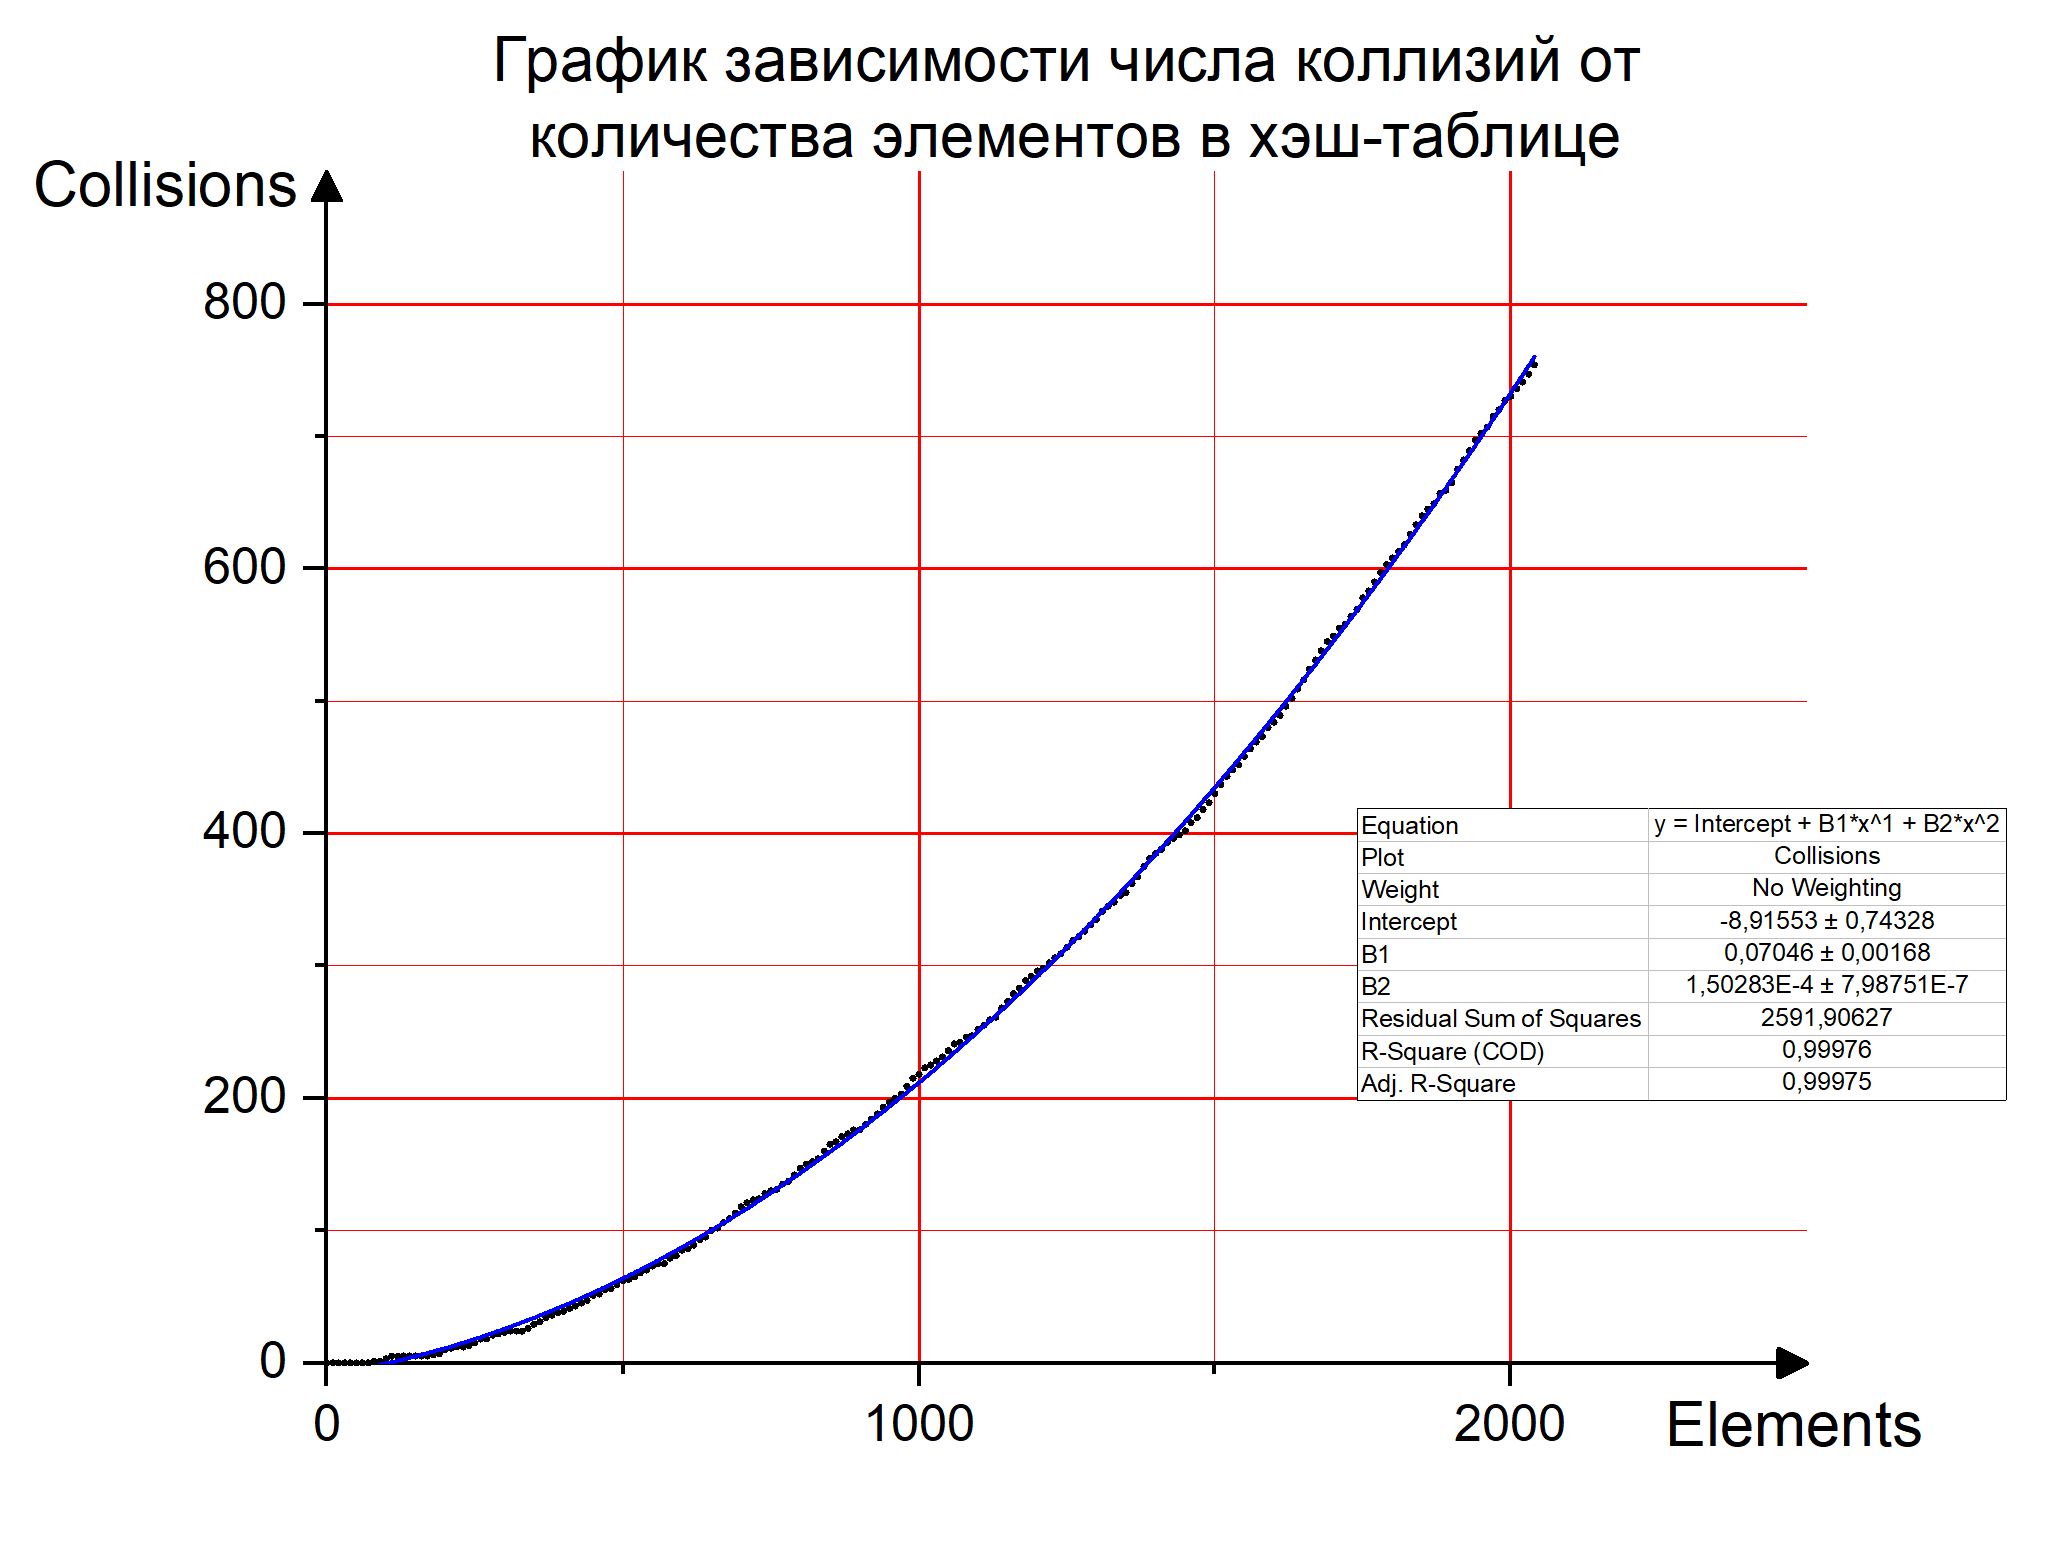
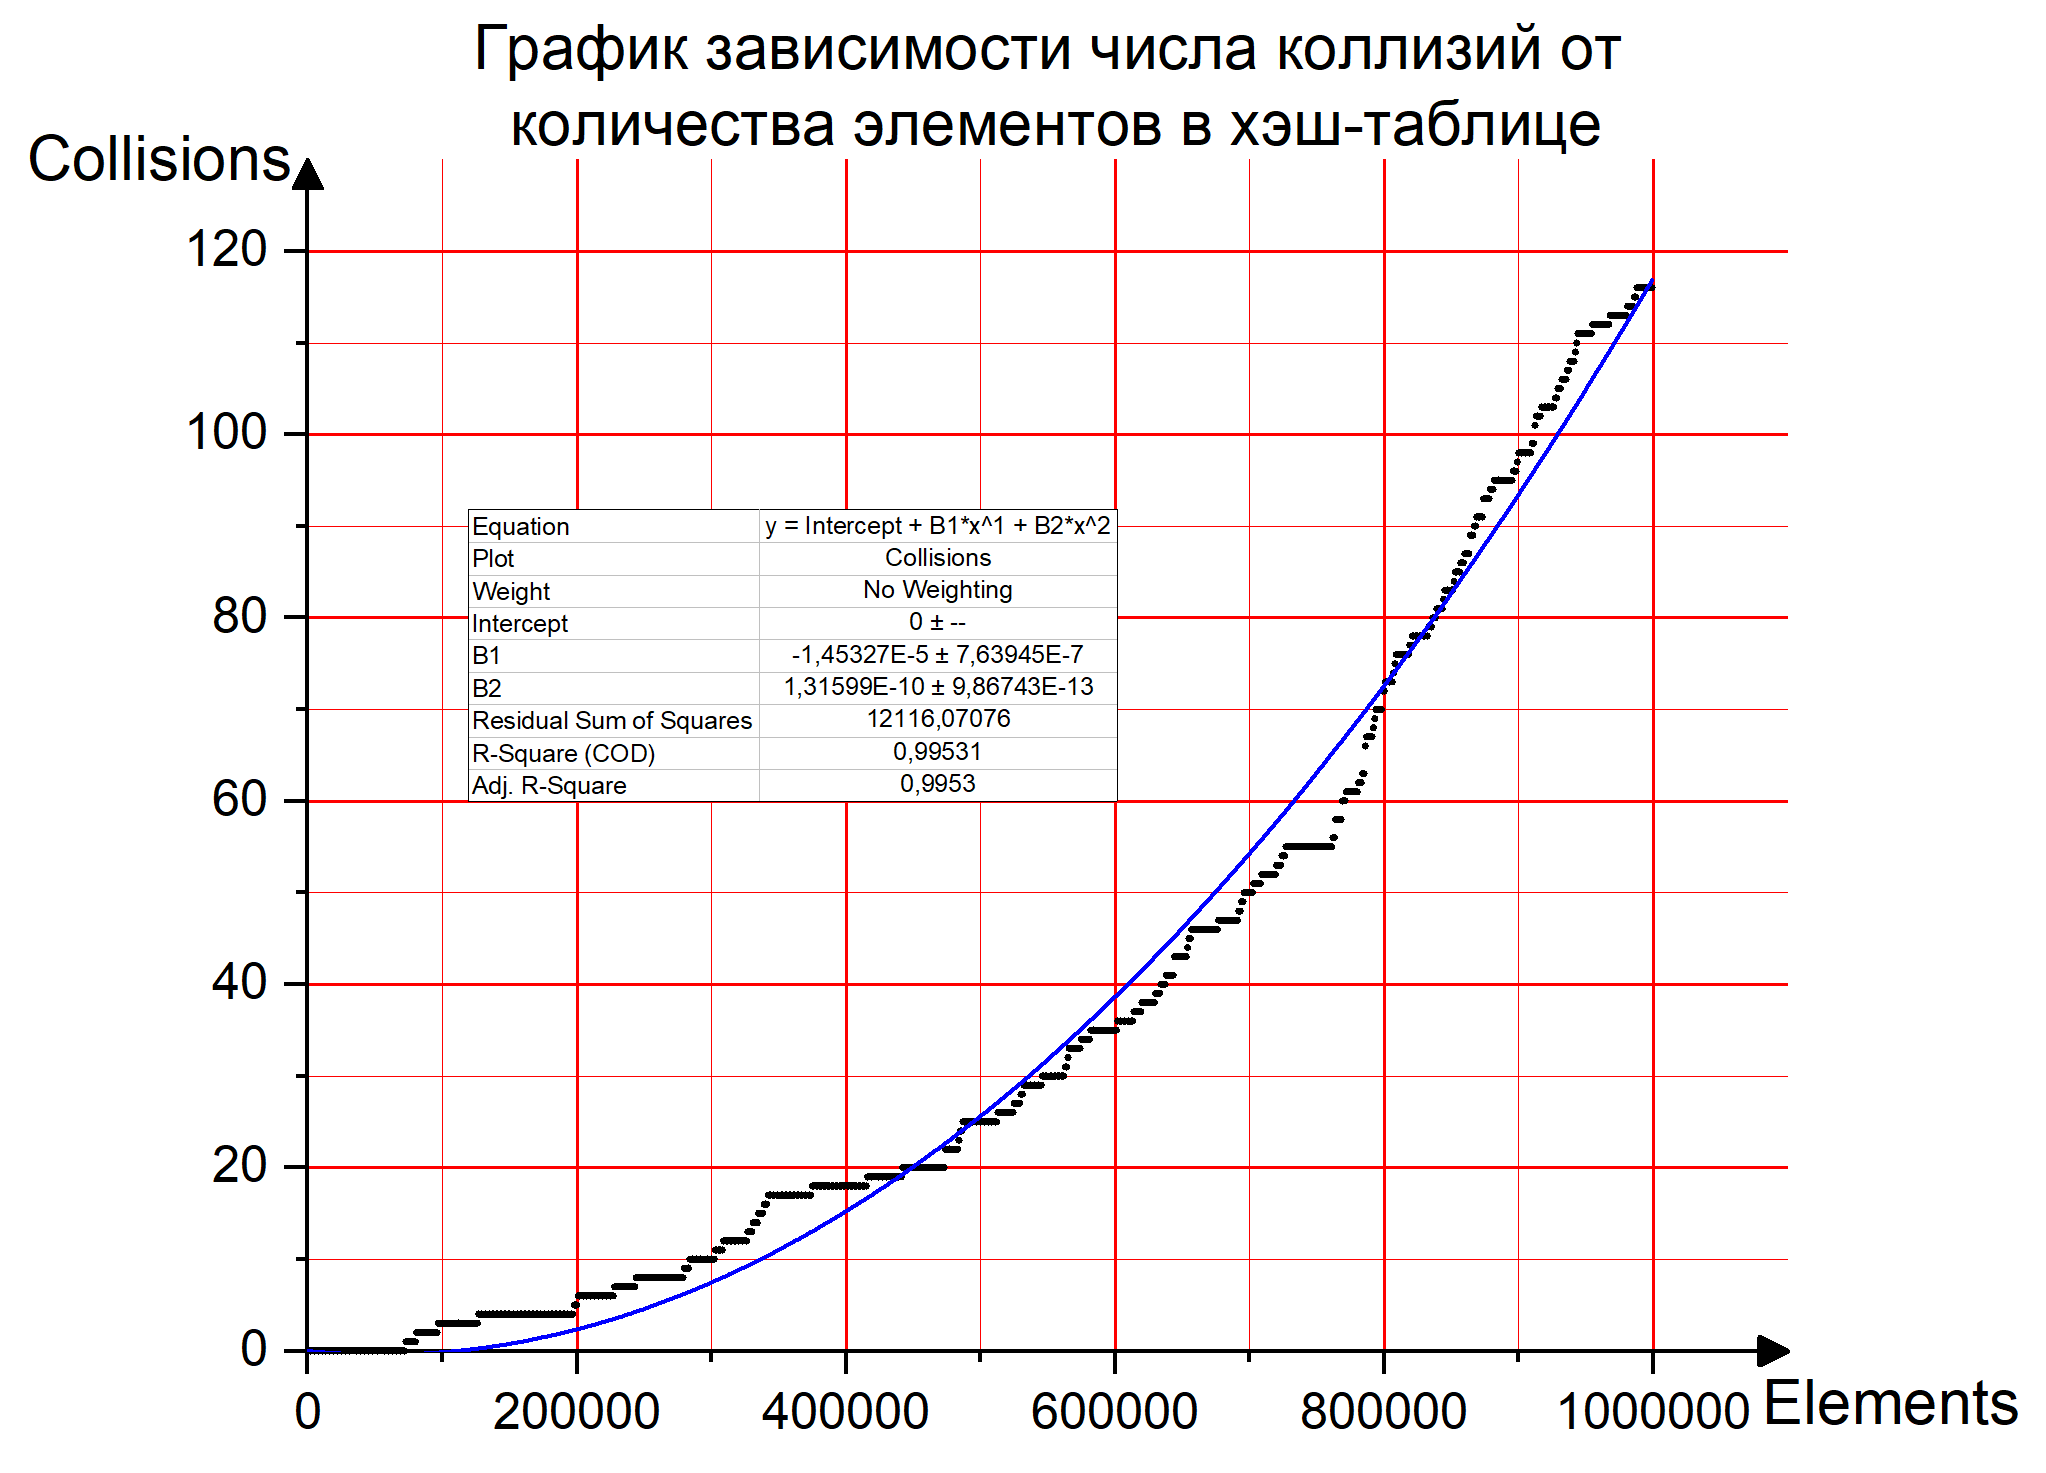
added new 3.3 solution and graph

diff --git a/HW 3 (15)/3.3.cpp b/HW 3 (15)/3.3.cpp
@@ -1,18 +1,29 @@
 #include <functional>
 #include <iostream>
 #include <string>
-#include <unordered_set>
+#include <set>
 #include <iomanip>
+#include <random>
+#include <chrono>
+#include <vector>
 
-bool is_equal(double a, double b)
+std::set < std::string > make_random_words(std::size_t N, std::size_t length)
 {
-	return std::abs(a - b) <= 10 * std::numeric_limits <double> ::epsilon();
-}
+	std::uniform_int_distribution <> letter(97, 122);
+	std::default_random_engine e(static_cast <std::size_t> 
+		(std::chrono::system_clock::now().time_since_epoch().count()));
 
-double random()
-{
-	double result = std::rand();
-	return result += 1.0 / std::rand();
+	std::set < std::string > words;
+
+	for (std::string s(length, '_'); std::size(words) < N; words.insert(s))
+	{
+		for (auto& c : s)
+		{
+			c = letter(e);
+		}
+	}
+
+	return words;
 }
 
 template < typename T >
@@ -42,70 +53,43 @@ std::size_t hash_value(const Types& ... args) noexcept
 	return seed;
 }
 
-class Int_Double
-{
-private:
-	friend struct Int_Double_Hash;
-	friend struct Int_Double_Equal;
-
-public:
-	Int_Double(const int i, const double d) :
-		m_int(i), m_double(d)
-	{}
-
-	~Int_Double() noexcept = default;
-
-public:
-	friend std::ostream& operator << (std::ostream& stream, const Int_Double& i_d)
-	{
-		return (stream << i_d.m_int << ", " << i_d.m_double);
-	}
-
-private:
-	int m_int;
-	double m_double;
-};
-
-struct Int_Double_Hash
-{
-	std::size_t operator() (const Int_Double& i_d) const noexcept
-	{
-		return hash_value(i_d.m_int, i_d.m_double);
-	}
-};
-
-struct Int_Double_Equal
-{
-	bool operator() (const Int_Double& lhs, const Int_Double& rhs) const noexcept
-	{
-		return (lhs.m_int == rhs.m_int) && is_equal(lhs.m_double,rhs.m_double);
-	}
-};
-
 int main(int argc, char** argv)
 {
-	std::unordered_set < Int_Double, Int_Double_Hash, Int_Double_Equal > i_ds;
-	std::size_t N = 2048U;
-
-	i_ds.rehash(N);
+	const std::size_t N = 1'000'000U;
 
 	std::cout << "N = " << N << "\n\n" << std::left << std::setw(15) << std::setfill(' ') << "Elements"
 		<< std::setw(15) << std::setfill(' ') << "Collisions" << "\n\n";
 
-	std::size_t collisions = 0U;
+	std::vector<int> ints(N, 0);
+	std::vector<double> doubles(N, 0.0);
 
-	for (auto i = 0U; i < N*i_ds.max_load_factor(); ++i)
+	for (std::size_t i = 0U; i < N; ++i)
 	{
-		if (i % 10 == 0)
+		ints[i] = i;
+		doubles[i] = static_cast<double>(i) / static_cast<double>(N);
+	}
+
+	std::shuffle(ints.begin(), ints.end(), std::default_random_engine(static_cast <std::size_t>(std::chrono::system_clock::now().time_since_epoch().count())));
+	std::shuffle(ints.begin(), ints.end(), std::default_random_engine(static_cast <std::size_t>(std::chrono::system_clock::now().time_since_epoch().count())));
+	auto strings = make_random_words(1'000'000U, 10U);
+
+	std::set < std::size_t > hashes;
+
+	auto it = strings.begin();
+	auto collisions = 0U;
+
+	for (std::size_t i = 0U; i < N; ++i)
+	{
+		if (i % 1000 == 0)
 		{
 			std::cout << std::left << std::setw(15) << std::setfill(' ') << i
 				<< std::setw(15) << std::setfill(' ') << collisions << "\n";
 		}
-		if (i_ds.bucket_size(i_ds.bucket(*(i_ds.insert(Int_Double(std::rand(), random())).first))) > 1)
+		if (!(hashes.insert(hash_value(*it++, ints[i], doubles[i])).second))
 		{
 			collisions++;
 		}
 	}
 
-	return EXIT_SUCCESS;
+	return 0;
 }
